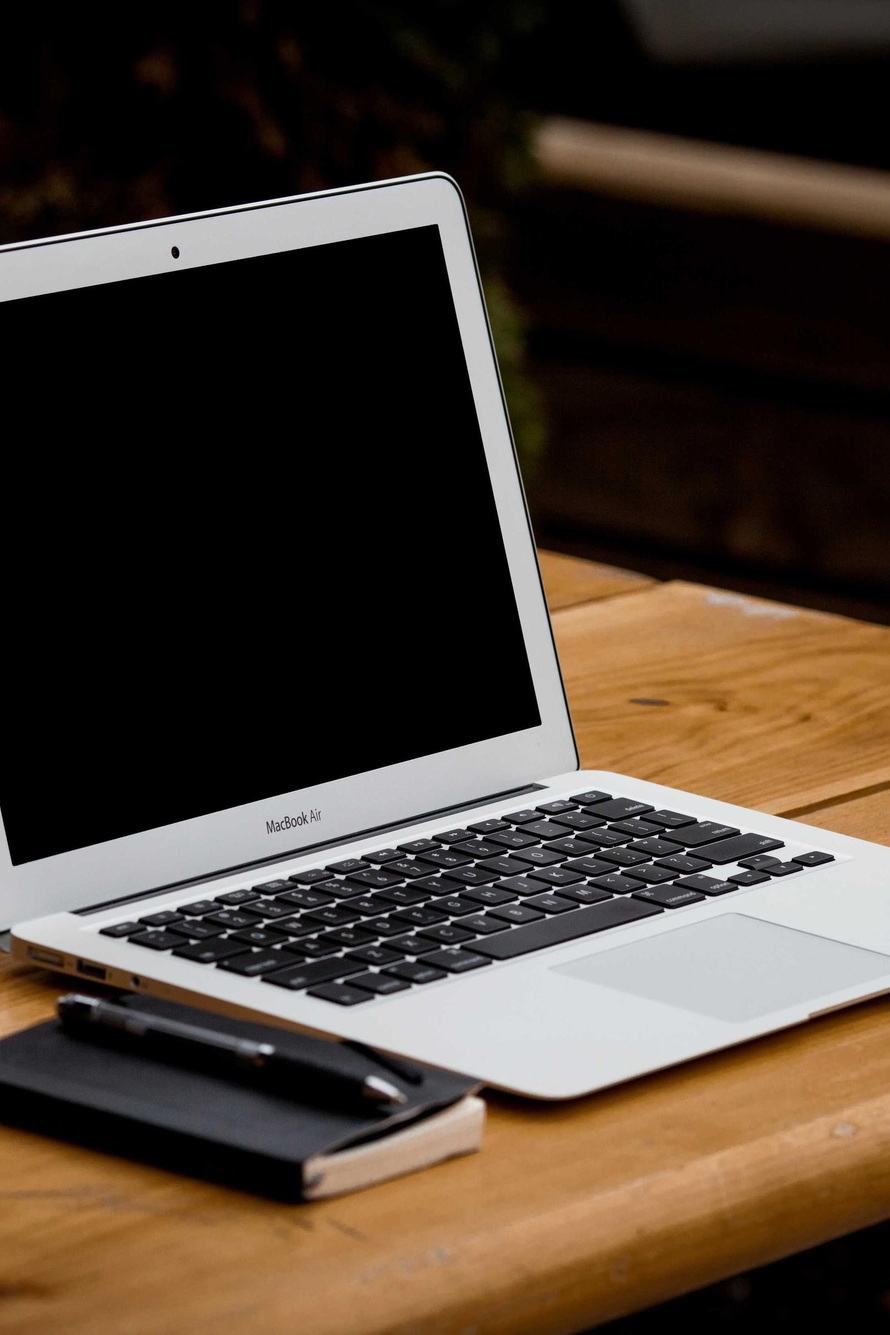
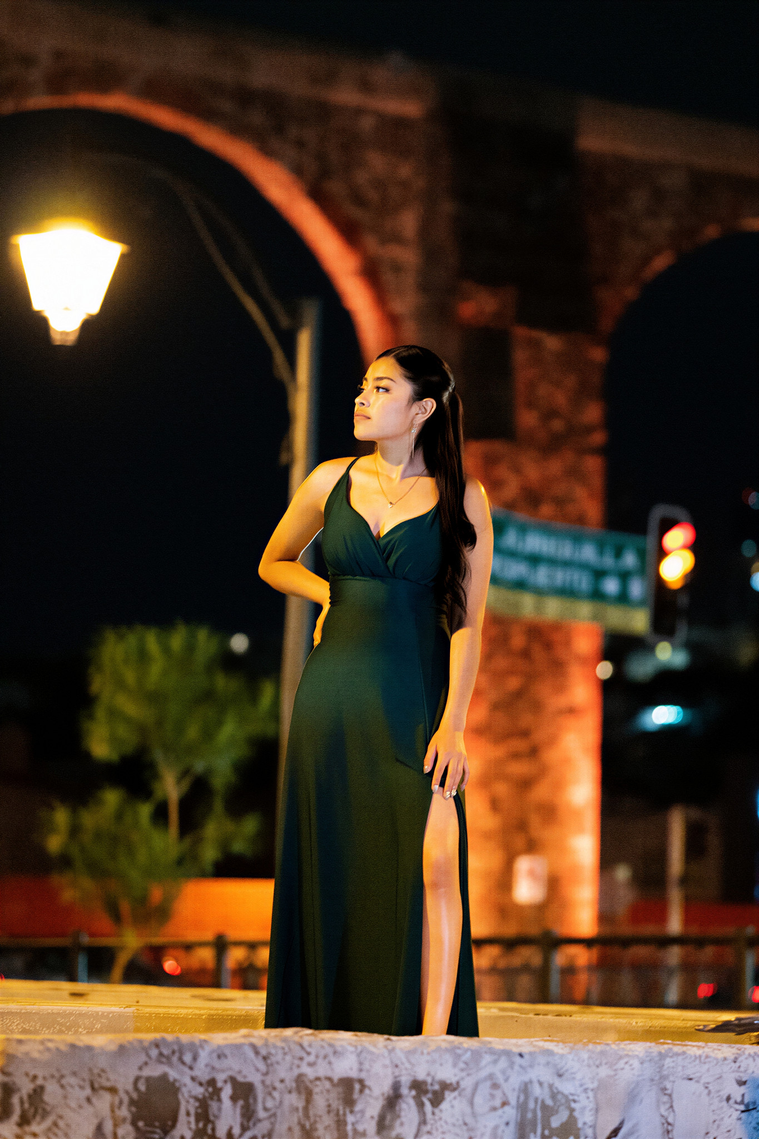
Replace placeholders with real photos from Desktop/Hechos

diff --git a/src/data/photos.ts b/src/data/photos.ts
@@ -1,4 +1,4 @@
-export type Category = 'Todos' | 'Retrato' | 'Eventos' | 'Comercial';
+export type Category = 'Todos' | 'Retrato' | 'Editorial';
 
 export interface Photo {
   id: string;
@@ -8,63 +8,63 @@ export interface Photo {
   title: string;
 }
 
-export const categories: Category[] = ['Todos', 'Retrato', 'Eventos', 'Comercial'];
+export const categories: Category[] = ['Todos', 'Retrato', 'Editorial'];
 
 export const photos: Photo[] = [
   {
     id: '1',
-    src: '/images/photo-0.jpg',
-    alt: 'Retrato artístico en estudio',
-    category: 'Retrato',
-    title: 'Luz natural'
-  },
-  {
-    id: '2',
     src: '/images/retrato.jpg',
     alt: 'Retrato familiar a luz natural',
     category: 'Retrato',
-    title: 'Luz de retrato'
+    title: 'Luz familiar'
+  },
+  {
+    id: '2',
+    src: '/images/infantil.jpg',
+    alt: 'Retrato infantil en campo',
+    category: 'Retrato',
+    title: 'Infancia'
   },
   {
     id: '3',
-    src: '/images/photo-10.jpg',
-    alt: 'Sesión comercial para marca',
-    category: 'Comercial',
-    title: 'Identidad visual'
+    src: '/images/arquitectura.jpg',
+    alt: 'Retrato editorial en arquitectura colonial',
+    category: 'Retrato',
+    title: 'Esencia'
   },
   {
     id: '4',
-    src: '/images/photo-100.jpg',
-    alt: 'Cobertura de evento corporativo',
-    category: 'Eventos',
-    title: 'Momentum'
+    src: '/images/editorial-1.jpg',
+    alt: 'Retrato editorial nocturno',
+    category: 'Editorial',
+    title: 'Noche morada'
   },
   {
     id: '5',
-    src: '/images/photo-101.jpg',
-    alt: 'Fotografía de producto',
-    category: 'Comercial',
-    title: 'Detalles'
+    src: '/images/editorial-2.jpg',
+    alt: 'Retrato editorial en vestido verde',
+    category: 'Editorial',
+    title: 'Elegancia nocturna'
   },
   {
     id: '6',
-    src: '/images/photo-102.jpg',
-    alt: 'Retrato lifestyle al aire libre',
-    category: 'Retrato',
-    title: 'Alma libre'
+    src: '/images/editorial-3.jpg',
+    alt: 'Retrato editorial con luces de ciudad',
+    category: 'Editorial',
+    title: 'Luces de la ciudad'
   },
   {
     id: '7',
-    src: '/images/photo-103.jpg',
-    alt: 'Celebración privada',
-    category: 'Eventos',
-    title: 'Instantes'
+    src: '/images/hero.jpg',
+    alt: 'Retrato editorial atemporal',
+    category: 'Editorial',
+    title: 'Atemporal'
   },
   {
     id: '8',
-    src: '/images/photo-104.jpg',
-    alt: 'Campaña publicitaria',
-    category: 'Comercial',
-    title: 'Narrativa'
+    src: '/images/banner.jpg',
+    alt: 'Retrato editorial con reflejos urbanos',
+    category: 'Editorial',
+    title: 'Reflejos'
   }
 ];
